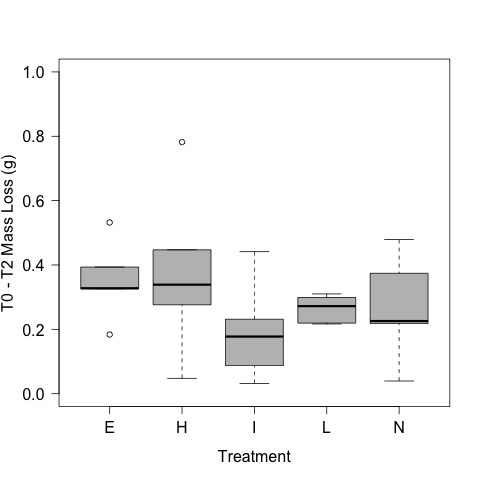
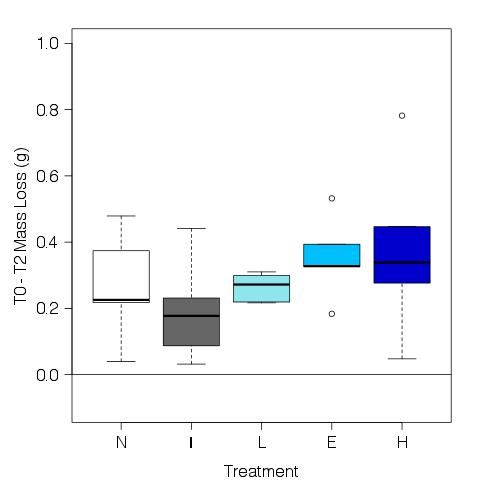
mass loss figs

diff --git a/lab_notebook/analysis/leaf_mass_loss_analysis.md b/lab_notebook/analysis/leaf_mass_loss_analysis.md
@@ -119,32 +119,36 @@ F-statistic: 107.6 on 1 and 86 DF,  p-value: < 2.2e-16
 
 ### Mass Lost per Time Step
 
-    mass.lost.T1 <- mean.initial.AFDM - T1AFDM
-    par(las = 1)
-    plot(mass.lost.T1 ~ treat$treatment, ylab = "T0 - T1 Mass Loss (g)", xlab = "Treatment", col = 8)
+    ordered.treat <- factor(treat$treatment, levels = c("N", "I", "L", "E", "H"))
+
+    mass.lost.T1 <- mean.initial.AFDM - leaf.AFDM$AFDM[leaf.AFDM$Date == "2016-06-06"]
+    par(las = 1, mar = c(4, 5, 2, 2))
+    plot(mass.lost.T1 ~ ordered.treat, ylab = "T0 - T1 Mass Loss (g)", xlab = "Treatment", col = c("white", "gray40", "cadetblue2", "deepskyblue", "blue3"), ylim = c(-0.1, 1))
     abline(h = 0)
     dev.copy(jpeg, "./output/plots/T0_T1_mass_loss.jpg")
     dev.off()
 
 ![Leaf Mass Loss From T0 to T1 by Treatment](../output/plots/T0_T1_mass_loss.jpg)
 
-    mass.lost.T2 <- mean.initial.AFDM - T2AFDM
-    par(las = 1)
-    plot(mass.lost.T2 ~ treat$treatment, ylim = c(0, 1), ylab = "T0 - T2 Mass Loss (g)", xlab = "Treatment", col = 8)
+    mass.lost.T2 <- mean.initial.AFDM - leaf.AFDM$AFDM[leaf.AFDM$Date == "2016-06-13"]
+    par(las = 1, mar = c(4, 5, 2, 2))
+    plot(mass.lost.T2 ~ ordered.treat, ylab = "T0 - T2 Mass Loss (g)", xlab = "Treatment", col = c("white", "gray40", "cadetblue2", "deepskyblue", "blue3"), ylim = c(-0.1, 1))
+    abline(h = 0)
     dev.copy(jpeg, "./output/plots/T0_T2_mass_loss.jpg")
     dev.off()
 
 ![Leaf Mass Loss From T0 to T2 by Treatment](../output/plots/T0_T2_mass_loss.jpg)
 
-
-    mass.lost.T3 <- mean.initial.AFDM - T3AFDM
-    par(las = 1)
-    plot(mass.lost.T3 ~ treat$treatment, ylim = c(0, 1), ylab = "T0 - T3 Mass Loss (g)", xlab = "Treatment", col = 8)
+    mass.lost.T3 <- mean.initial.AFDM - leaf.AFDM$AFDM[leaf.AFDM$Date == "2016-06-27"]
+    par(las = 1, mar = c(4, 5, 2, 2))
+    plot(mass.lost.T3 ~ ordered.treat, ylab = "T0 - T3 Mass Loss (g)", xlab = "Treatment", col = c("white", "gray40", "cadetblue2", "deepskyblue", "blue3"), ylim = c(-0.1, 1))
+    abline(h = 0)
     dev.copy(jpeg, "./output/plots/T0_T3_mass_loss.jpg")
     dev.off()
 
 ![Leaf Mass Loss From T0 to T3 by Treatment](../output/plots/T0_T3_mass_loss.jpg)
 
+    
 ### Plot by Tank
 
     plot(percAFDM.rem ~ BagTank, data = leaf.AFDM, subset = days.elapsed == "3", pch = 19, col = 1, ylim = c(0, 110) )
